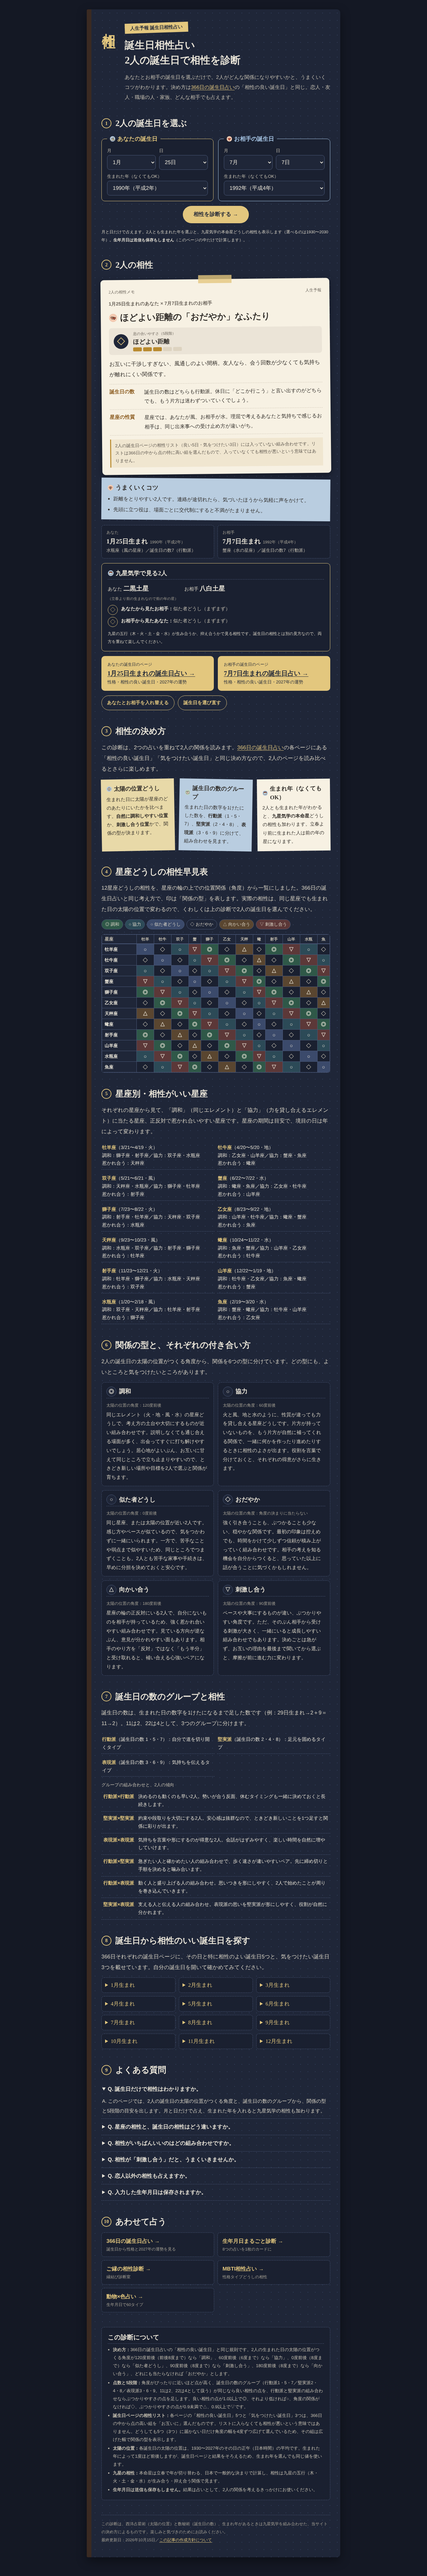
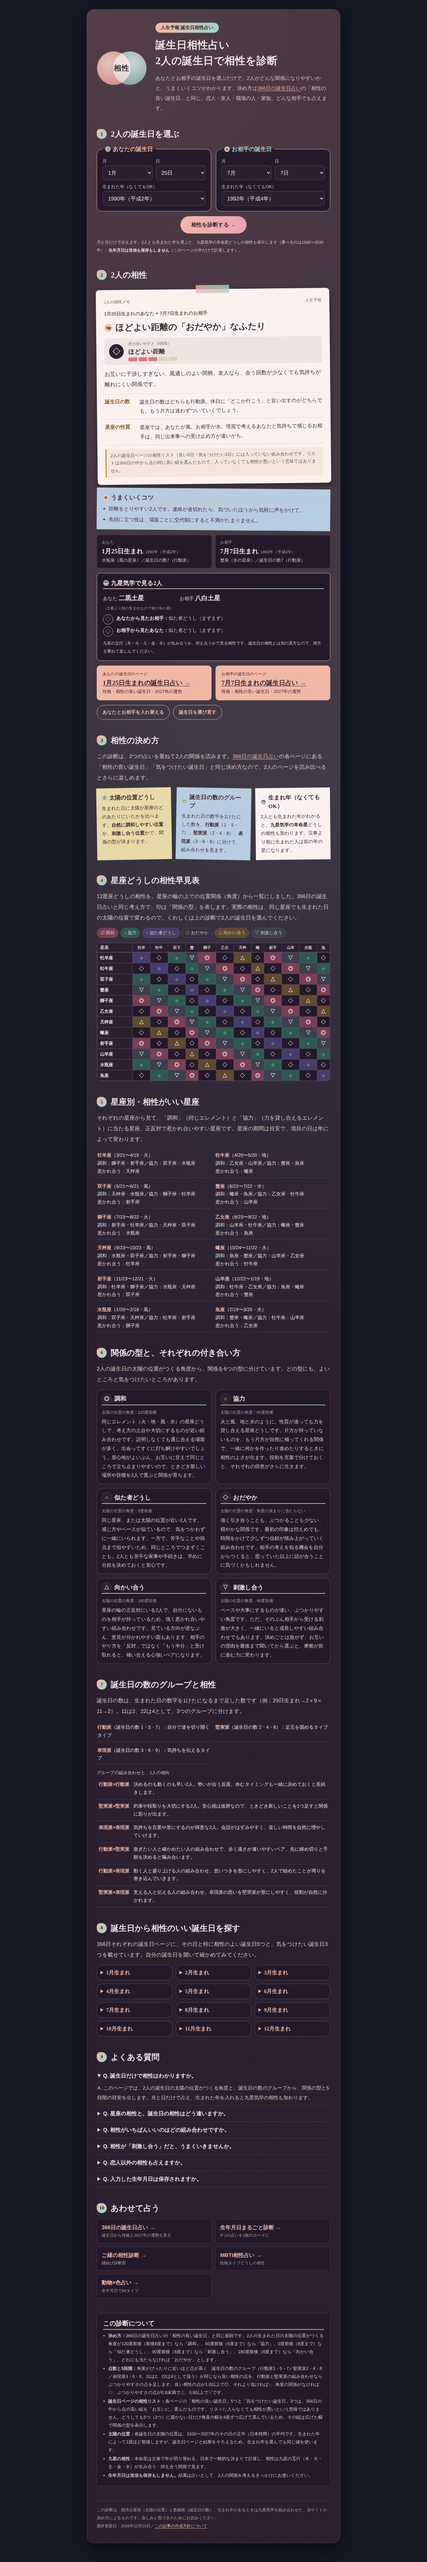
相性占いページを誕生日ページと見分けがつく色・飾りに（ローズとミントの2色）
Claude-Session: https://claude.ai/code/session_01BiMDQiFz9uDnU8MjsVTwZ7

Changed region(s): [[0.1875, 0.0, 0.8125, 0.9974], [0.7188, 0.8104, 0.75, 0.8415]]

diff --git a/work/out/compatibility.html b/work/out/compatibility.html
@@ -17,10 +17,44 @@
 <link rel="preconnect" href="https://fonts.gstatic.com" crossorigin>
 <link href="https://fonts.googleapis.com/css2?family=Klee+One:wght@400;600&family=Shippori+Mincho:wght@600;800&family=Zen+Kaku+Gothic+New:wght@400;500;700&display=swap" rel="stylesheet">
 <link rel="stylesheet" href="/wp-content/uploads/fh-b27/fh-b27.css?v=20261012">
+<style id="fh-b27-cpt-css">
+.fh-b27[data-fh-page="compatibility"]{--ink:#F3E9EC;--sub:#DCCBD1;--mute:#B9A3AC;--paper:#2B1F30;--deep:#23192A;--line:#5E4768;--gold:#F2B8A6;--teal:#9ED5CA;--cream:#FCF1EF;--cream-ink:#3A2630}
+.fh-b27[data-fh-page="compatibility"] a:hover{color:#FFD6C9}
+.fh-b27[data-fh-page="compatibility"] .fh-b27-note{border-left:0;border-radius:22px;background-color:var(--paper);
+  background-image:radial-gradient(circle at 8% 0%,rgba(242,184,166,.20),transparent 38%),radial-gradient(circle at 100% 30%,rgba(158,213,202,.13),transparent 34%),radial-gradient(rgba(255,255,255,.07) 1px,transparent 1.4px);
+  background-size:auto,auto,26px 26px;box-shadow:0 14px 40px rgba(0,0,0,.45),inset 0 0 0 1px rgba(242,184,166,.18)}
+.fh-b27[data-fh-page="compatibility"] .fh-b27-hero{align-items:center}
+.fh-b27-cpt-emb{position:relative;flex:0 0 150px;height:110px}
+.fh-b27-cpt-emb i{position:absolute;top:5px;width:100px;height:100px;border-radius:50%;mix-blend-mode:screen}
+.fh-b27-cpt-emb i:first-child{left:0;background:radial-gradient(circle at 35% 35%,#FFD3C4,#E0877A 70%);opacity:.85;animation:fh-b27-cpt-a 4s ease-in-out infinite alternate}
+.fh-b27-cpt-emb i:nth-child(2){right:0;background:radial-gradient(circle at 60% 35%,#D2F2EA,#5FAFA2 70%);opacity:.85;animation:fh-b27-cpt-b 4s ease-in-out infinite alternate}
+.fh-b27-cpt-emb b{position:absolute;inset:0;display:flex;align-items:center;justify-content:center;font-family:'Shippori Mincho',serif;font-size:22px;font-weight:800;color:#2B1F30;letter-spacing:.08em}
+@keyframes fh-b27-cpt-a{to{transform:translateX(8px)}}@keyframes fh-b27-cpt-b{to{transform:translateX(-8px)}}
+@media (prefers-reduced-motion:reduce){.fh-b27-cpt-emb i{animation:none}}
+.fh-b27[data-fh-page="compatibility"] .fh-b27-tape{transform:none;border-radius:999px;background:linear-gradient(90deg,var(--gold),var(--teal));color:#2B1F30}
+.fh-b27[data-fh-page="compatibility"] .fh-b27-title{font-family:'Shippori Mincho',serif;font-weight:800;font-size:31px;letter-spacing:.02em}
+.fh-b27[data-fh-page="compatibility"] h2{font-family:'Shippori Mincho',serif;font-weight:800;font-size:24px}
+.fh-b27[data-fh-page="compatibility"] h2 .fh-b27-n{border:0;background:linear-gradient(135deg,var(--gold),var(--teal));color:#2B1F30;font-weight:800;border-radius:10px 50% 50% 50%}
+.fh-b27[data-fh-page="compatibility"] h3{border-bottom:0;background:linear-gradient(90deg,var(--gold),var(--teal)) left bottom/100% 2px no-repeat}
+.fh-b27[data-fh-page="compatibility"] .fh-b27-cp-person{border-color:var(--gold);border-radius:16px}
+.fh-b27[data-fh-page="compatibility"] .fh-b27-cp-person-b{border-color:var(--teal)}
+.fh-b27[data-fh-page="compatibility"] .fh-b27-cp-person-b legend{color:var(--teal)}
+.fh-b27[data-fh-page="compatibility"] .fh-b27-cp-bar i.fh-b27-cp-on{background:#D9788A}
+.fh-b27[data-fh-page="compatibility"] .fh-b27-cp-paper:before{background:linear-gradient(90deg,var(--gold),var(--teal))}
+.fh-b27[data-fh-page="compatibility"] .fh-b27-btn{background:linear-gradient(90deg,#F2B8A6,#E8A3B4);color:#2B1F30}
+.fh-b27[data-fh-page="compatibility"] .fh-b27-cpx-t td.r4,.fh-b27[data-fh-page="compatibility"] .fh-b27-cpx-key .r4{background:#7A3E55}
+.fh-b27[data-fh-page="compatibility"] .fh-b27-cpx-t td.r2,.fh-b27[data-fh-page="compatibility"] .fh-b27-cpx-key .r2{background:#2E5A55}
+.fh-b27[data-fh-page="compatibility"] .fh-b27-cpx-t td.r0,.fh-b27[data-fh-page="compatibility"] .fh-b27-cpx-key .r0{background:#463E6A}
+.fh-b27[data-fh-page="compatibility"] .fh-b27-cpx-t td.r6,.fh-b27[data-fh-page="compatibility"] .fh-b27-cpx-key .r6{background:#5E4A30}
+.fh-b27[data-fh-page="compatibility"] .fh-b27-cpx-t td.r3,.fh-b27[data-fh-page="compatibility"] .fh-b27-cpx-key .r3{background:#3B3F4F}
+.fh-b27[data-fh-page="compatibility"] .fh-b27-cpx-types div,.fh-b27[data-fh-page="compatibility"] .fh-b27-cpx-cal details{border-style:solid;border-color:rgba(242,184,166,.28);border-radius:16px}
+.fh-b27[data-fh-page="compatibility"] .fh-b27-cpx-cal summary{font-family:'Shippori Mincho',serif;font-weight:700}
+@media (max-width:640px){.fh-b27-cpt-emb{flex-basis:130px;height:96px}.fh-b27-cpt-emb i{width:86px;height:86px}.fh-b27[data-fh-page="compatibility"] .fh-b27-title{font-size:25px}}
+</style>
 <div class="fh-b27" data-fh-page="compatibility">
 <div class="fh-b27-note">
 <header class="fh-b27-hero">
-  <div class="fh-b27-kou" aria-hidden="true">相性</div>
+  <div class="fh-b27-cpt-emb" aria-hidden="true"><i></i><i></i><b>相性</b></div>
   <div class="fh-b27-hero-body">
     <span class="fh-b27-tape">人生予報 誕生日相性占い</span>
     <p class="fh-b27-title">誕生日相性占い<br>2人の誕生日で相性を診断</p>

diff --git a/work/out/sample/compatibility.html b/work/out/sample/compatibility.html
@@ -15,10 +15,44 @@
 <link rel="preconnect" href="https://fonts.gstatic.com" crossorigin>
 <link href="https://fonts.googleapis.com/css2?family=Klee+One:wght@400;600&family=Shippori+Mincho:wght@600;800&family=Zen+Kaku+Gothic+New:wght@400;500;700&display=swap" rel="stylesheet">
 <link rel="stylesheet" href="../assets/fh-b27.css">
+<style id="fh-b27-cpt-css">
+.fh-b27[data-fh-page="compatibility"]{--ink:#F3E9EC;--sub:#DCCBD1;--mute:#B9A3AC;--paper:#2B1F30;--deep:#23192A;--line:#5E4768;--gold:#F2B8A6;--teal:#9ED5CA;--cream:#FCF1EF;--cream-ink:#3A2630}
+.fh-b27[data-fh-page="compatibility"] a:hover{color:#FFD6C9}
+.fh-b27[data-fh-page="compatibility"] .fh-b27-note{border-left:0;border-radius:22px;background-color:var(--paper);
+  background-image:radial-gradient(circle at 8% 0%,rgba(242,184,166,.20),transparent 38%),radial-gradient(circle at 100% 30%,rgba(158,213,202,.13),transparent 34%),radial-gradient(rgba(255,255,255,.07) 1px,transparent 1.4px);
+  background-size:auto,auto,26px 26px;box-shadow:0 14px 40px rgba(0,0,0,.45),inset 0 0 0 1px rgba(242,184,166,.18)}
+.fh-b27[data-fh-page="compatibility"] .fh-b27-hero{align-items:center}
+.fh-b27-cpt-emb{position:relative;flex:0 0 150px;height:110px}
+.fh-b27-cpt-emb i{position:absolute;top:5px;width:100px;height:100px;border-radius:50%;mix-blend-mode:screen}
+.fh-b27-cpt-emb i:first-child{left:0;background:radial-gradient(circle at 35% 35%,#FFD3C4,#E0877A 70%);opacity:.85;animation:fh-b27-cpt-a 4s ease-in-out infinite alternate}
+.fh-b27-cpt-emb i:nth-child(2){right:0;background:radial-gradient(circle at 60% 35%,#D2F2EA,#5FAFA2 70%);opacity:.85;animation:fh-b27-cpt-b 4s ease-in-out infinite alternate}
+.fh-b27-cpt-emb b{position:absolute;inset:0;display:flex;align-items:center;justify-content:center;font-family:'Shippori Mincho',serif;font-size:22px;font-weight:800;color:#2B1F30;letter-spacing:.08em}
+@keyframes fh-b27-cpt-a{to{transform:translateX(8px)}}@keyframes fh-b27-cpt-b{to{transform:translateX(-8px)}}
+@media (prefers-reduced-motion:reduce){.fh-b27-cpt-emb i{animation:none}}
+.fh-b27[data-fh-page="compatibility"] .fh-b27-tape{transform:none;border-radius:999px;background:linear-gradient(90deg,var(--gold),var(--teal));color:#2B1F30}
+.fh-b27[data-fh-page="compatibility"] .fh-b27-title{font-family:'Shippori Mincho',serif;font-weight:800;font-size:31px;letter-spacing:.02em}
+.fh-b27[data-fh-page="compatibility"] h2{font-family:'Shippori Mincho',serif;font-weight:800;font-size:24px}
+.fh-b27[data-fh-page="compatibility"] h2 .fh-b27-n{border:0;background:linear-gradient(135deg,var(--gold),var(--teal));color:#2B1F30;font-weight:800;border-radius:10px 50% 50% 50%}
+.fh-b27[data-fh-page="compatibility"] h3{border-bottom:0;background:linear-gradient(90deg,var(--gold),var(--teal)) left bottom/100% 2px no-repeat}
+.fh-b27[data-fh-page="compatibility"] .fh-b27-cp-person{border-color:var(--gold);border-radius:16px}
+.fh-b27[data-fh-page="compatibility"] .fh-b27-cp-person-b{border-color:var(--teal)}
+.fh-b27[data-fh-page="compatibility"] .fh-b27-cp-person-b legend{color:var(--teal)}
+.fh-b27[data-fh-page="compatibility"] .fh-b27-cp-bar i.fh-b27-cp-on{background:#D9788A}
+.fh-b27[data-fh-page="compatibility"] .fh-b27-cp-paper:before{background:linear-gradient(90deg,var(--gold),var(--teal))}
+.fh-b27[data-fh-page="compatibility"] .fh-b27-btn{background:linear-gradient(90deg,#F2B8A6,#E8A3B4);color:#2B1F30}
+.fh-b27[data-fh-page="compatibility"] .fh-b27-cpx-t td.r4,.fh-b27[data-fh-page="compatibility"] .fh-b27-cpx-key .r4{background:#7A3E55}
+.fh-b27[data-fh-page="compatibility"] .fh-b27-cpx-t td.r2,.fh-b27[data-fh-page="compatibility"] .fh-b27-cpx-key .r2{background:#2E5A55}
+.fh-b27[data-fh-page="compatibility"] .fh-b27-cpx-t td.r0,.fh-b27[data-fh-page="compatibility"] .fh-b27-cpx-key .r0{background:#463E6A}
+.fh-b27[data-fh-page="compatibility"] .fh-b27-cpx-t td.r6,.fh-b27[data-fh-page="compatibility"] .fh-b27-cpx-key .r6{background:#5E4A30}
+.fh-b27[data-fh-page="compatibility"] .fh-b27-cpx-t td.r3,.fh-b27[data-fh-page="compatibility"] .fh-b27-cpx-key .r3{background:#3B3F4F}
+.fh-b27[data-fh-page="compatibility"] .fh-b27-cpx-types div,.fh-b27[data-fh-page="compatibility"] .fh-b27-cpx-cal details{border-style:solid;border-color:rgba(242,184,166,.28);border-radius:16px}
+.fh-b27[data-fh-page="compatibility"] .fh-b27-cpx-cal summary{font-family:'Shippori Mincho',serif;font-weight:700}
+@media (max-width:640px){.fh-b27-cpt-emb{flex-basis:130px;height:96px}.fh-b27-cpt-emb i{width:86px;height:86px}.fh-b27[data-fh-page="compatibility"] .fh-b27-title{font-size:25px}}
+</style>
 <div class="fh-b27" data-fh-page="compatibility">
 <div class="fh-b27-note">
 <header class="fh-b27-hero">
-  <div class="fh-b27-kou" aria-hidden="true">相性</div>
+  <div class="fh-b27-cpt-emb" aria-hidden="true"><i></i><i></i><b>相性</b></div>
   <div class="fh-b27-hero-body">
     <span class="fh-b27-tape">人生予報 誕生日相性占い</span>
     <p class="fh-b27-title">誕生日相性占い<br>2人の誕生日で相性を診断</p>

diff --git a/work/scripts/compat_extra.py b/work/scripts/compat_extra.py
@@ -174,3 +174,43 @@ def sections(start_no):
 <script type="application/ld+json">{json.dumps(ld, ensure_ascii=False)}</script>''')
     n += 1
     return "\n".join(out), n
+
+
+def theme_css():
+    """相性ページだけの色と飾り（誕生日ページの「紺のノート」と見分けがつくように。2026-10-15 本人の希望）。
+    共通CSSは変えず、data-fh-page="compatibility" のときだけ上書きする。"""
+    P = '.fh-b27[data-fh-page="compatibility"]'
+    return f"""<style id="fh-b27-cpt-css">
+{P}{{--ink:#F3E9EC;--sub:#DCCBD1;--mute:#B9A3AC;--paper:#2B1F30;--deep:#23192A;--line:#5E4768;--gold:#F2B8A6;--teal:#9ED5CA;--cream:#FCF1EF;--cream-ink:#3A2630}}
+{P} a:hover{{color:#FFD6C9}}
+{P} .fh-b27-note{{border-left:0;border-radius:22px;background-color:var(--paper);
+  background-image:radial-gradient(circle at 8% 0%,rgba(242,184,166,.20),transparent 38%),radial-gradient(circle at 100% 30%,rgba(158,213,202,.13),transparent 34%),radial-gradient(rgba(255,255,255,.07) 1px,transparent 1.4px);
+  background-size:auto,auto,26px 26px;box-shadow:0 14px 40px rgba(0,0,0,.45),inset 0 0 0 1px rgba(242,184,166,.18)}}
+{P} .fh-b27-hero{{align-items:center}}
+.fh-b27-cpt-emb{{position:relative;flex:0 0 150px;height:110px}}
+.fh-b27-cpt-emb i{{position:absolute;top:5px;width:100px;height:100px;border-radius:50%;mix-blend-mode:screen}}
+.fh-b27-cpt-emb i:first-child{{left:0;background:radial-gradient(circle at 35% 35%,#FFD3C4,#E0877A 70%);opacity:.85;animation:fh-b27-cpt-a 4s ease-in-out infinite alternate}}
+.fh-b27-cpt-emb i:nth-child(2){{right:0;background:radial-gradient(circle at 60% 35%,#D2F2EA,#5FAFA2 70%);opacity:.85;animation:fh-b27-cpt-b 4s ease-in-out infinite alternate}}
+.fh-b27-cpt-emb b{{position:absolute;inset:0;display:flex;align-items:center;justify-content:center;font-family:'Shippori Mincho',serif;font-size:22px;font-weight:800;color:#2B1F30;letter-spacing:.08em}}
+@keyframes fh-b27-cpt-a{{to{{transform:translateX(8px)}}}}@keyframes fh-b27-cpt-b{{to{{transform:translateX(-8px)}}}}
+@media (prefers-reduced-motion:reduce){{.fh-b27-cpt-emb i{{animation:none}}}}
+{P} .fh-b27-tape{{transform:none;border-radius:999px;background:linear-gradient(90deg,var(--gold),var(--teal));color:#2B1F30}}
+{P} .fh-b27-title{{font-family:'Shippori Mincho',serif;font-weight:800;font-size:31px;letter-spacing:.02em}}
+{P} h2{{font-family:'Shippori Mincho',serif;font-weight:800;font-size:24px}}
+{P} h2 .fh-b27-n{{border:0;background:linear-gradient(135deg,var(--gold),var(--teal));color:#2B1F30;font-weight:800;border-radius:10px 50% 50% 50%}}
+{P} h3{{border-bottom:0;background:linear-gradient(90deg,var(--gold),var(--teal)) left bottom/100% 2px no-repeat}}
+{P} .fh-b27-cp-person{{border-color:var(--gold);border-radius:16px}}
+{P} .fh-b27-cp-person-b{{border-color:var(--teal)}}
+{P} .fh-b27-cp-person-b legend{{color:var(--teal)}}
+{P} .fh-b27-cp-bar i.fh-b27-cp-on{{background:#D9788A}}
+{P} .fh-b27-cp-paper:before{{background:linear-gradient(90deg,var(--gold),var(--teal))}}
+{P} .fh-b27-btn{{background:linear-gradient(90deg,#F2B8A6,#E8A3B4);color:#2B1F30}}
+{P} .fh-b27-cpx-t td.r4,{P} .fh-b27-cpx-key .r4{{background:#7A3E55}}
+{P} .fh-b27-cpx-t td.r2,{P} .fh-b27-cpx-key .r2{{background:#2E5A55}}
+{P} .fh-b27-cpx-t td.r0,{P} .fh-b27-cpx-key .r0{{background:#463E6A}}
+{P} .fh-b27-cpx-t td.r6,{P} .fh-b27-cpx-key .r6{{background:#5E4A30}}
+{P} .fh-b27-cpx-t td.r3,{P} .fh-b27-cpx-key .r3{{background:#3B3F4F}}
+{P} .fh-b27-cpx-types div,{P} .fh-b27-cpx-cal details{{border-style:solid;border-color:rgba(242,184,166,.28);border-radius:16px}}
+{P} .fh-b27-cpx-cal summary{{font-family:'Shippori Mincho',serif;font-weight:700}}
+@media (max-width:640px){{.fh-b27-cpt-emb{{flex-basis:130px;height:96px}}.fh-b27-cpt-emb i{{width:86px;height:86px}}{P} .fh-b27-title{{font-size:25px}}}}
+</style>"""

diff --git a/work/scripts/build_compatibility.py b/work/scripts/build_compatibility.py
@@ -96,9 +96,10 @@ def person(key, who, icon):
 def build(sample, updated):
     H = []
     a = H.append
+    a(compat_extra.theme_css())  # 2026-10-15 誕生日ページと見分けがつく色に（本人の希望）
     a('<div class="fh-b27" data-fh-page="compatibility">\n<div class="fh-b27-note">')
     a('''<header class="fh-b27-hero">
-  <div class="fh-b27-kou" aria-hidden="true">相性</div>
+  <div class="fh-b27-cpt-emb" aria-hidden="true"><i></i><i></i><b>相性</b></div>
   <div class="fh-b27-hero-body">
     <span class="fh-b27-tape">人生予報 誕生日相性占い</span>
     <p class="fh-b27-title">誕生日相性占い<br>2人の誕生日で相性を診断</p>
